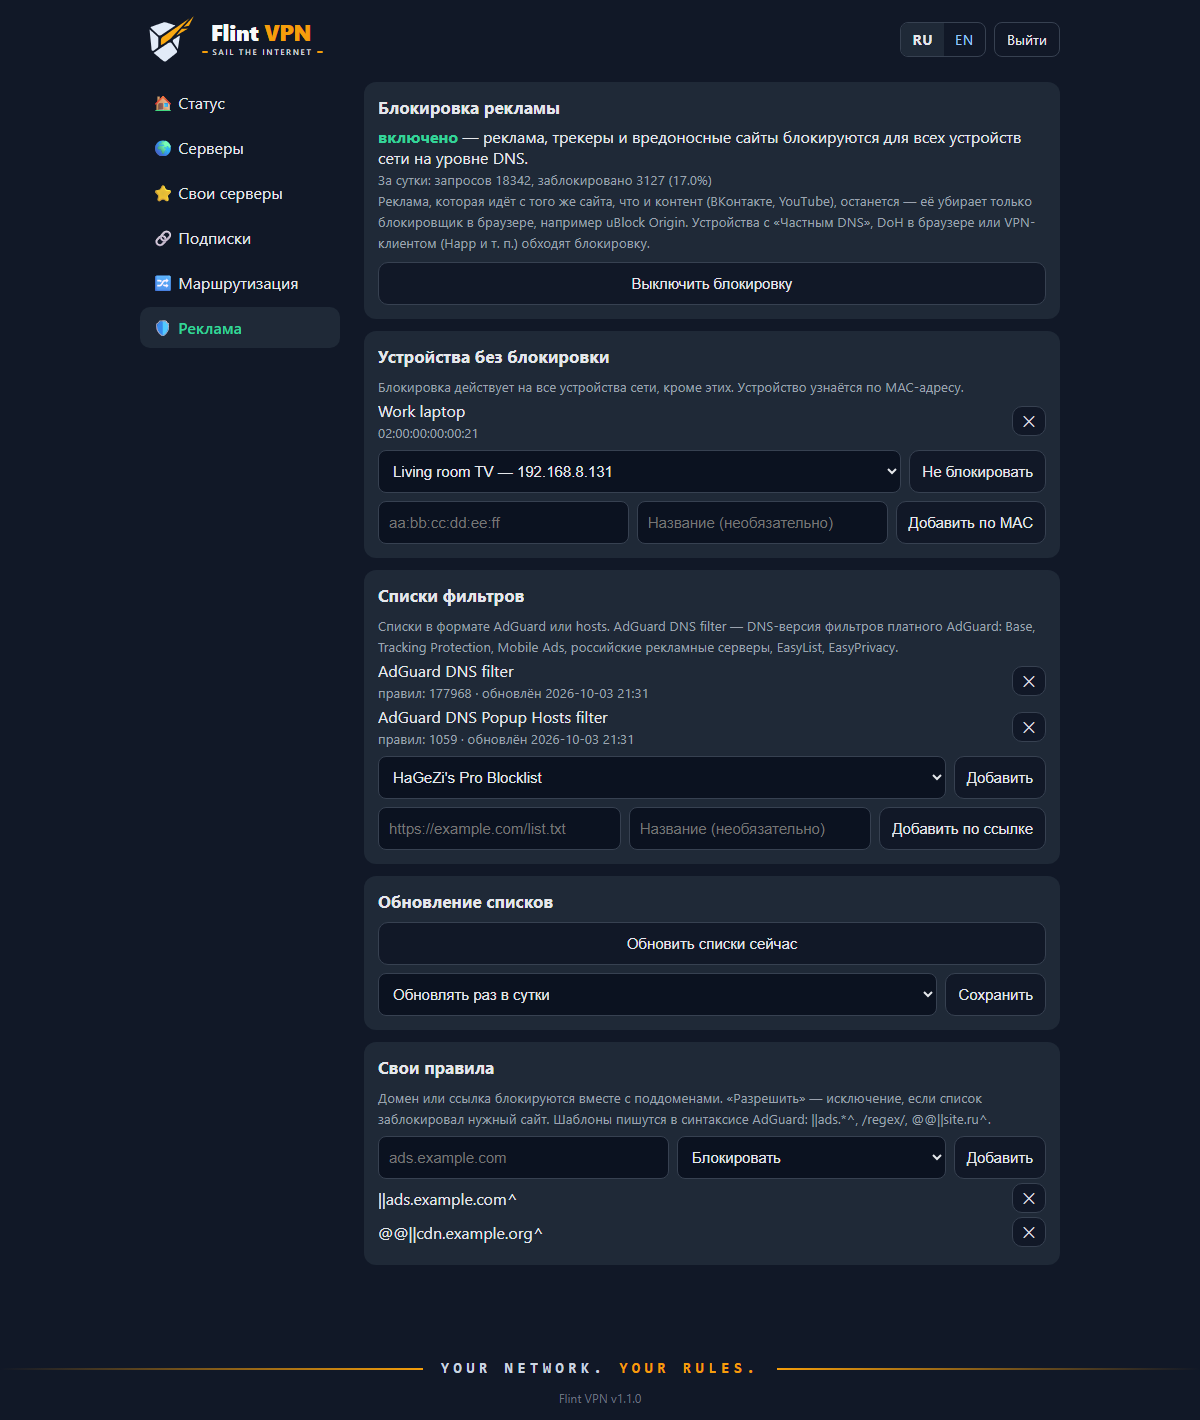
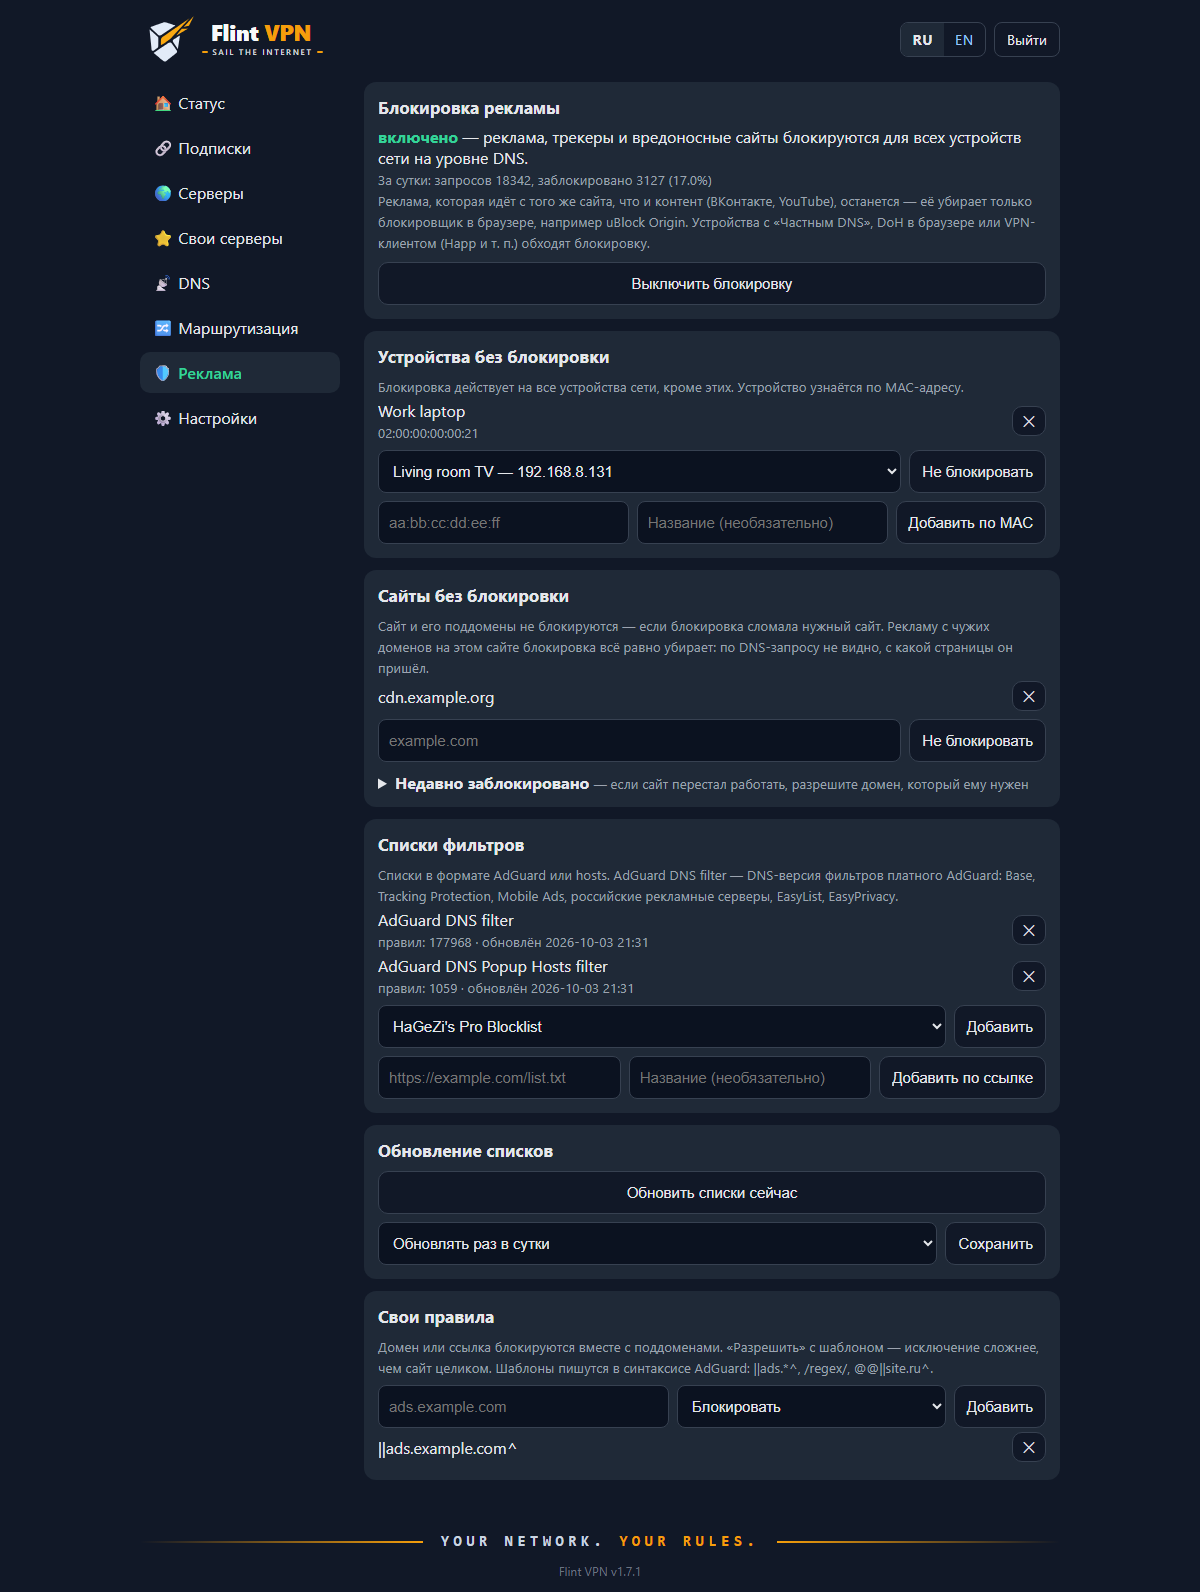
panel: tab order Status, Subscriptions, Servers, Own, DNS, Routing, Ads, Settings; re-shot screenshots

diff --git a/README.md b/README.md
@@ -57,14 +57,16 @@ Flint VPN превращает роутер GL.iNet в прозрачный VPN-
 | Вход | Статус |
 |---|---|
 | ![Вход](docs/screenshots/login.png) | ![Статус](docs/screenshots/status.png) |
-| **Серверы** | **Белые списки** |
-| ![Серверы](docs/screenshots/servers.png) | ![Белые списки](docs/screenshots/whitelist.png) |
-| **Свои серверы** | **Редактирование сервера** |
-| ![Свои серверы](docs/screenshots/own.png) | ![Редактирование](docs/screenshots/edit.png) |
-| **Подписки** | **Маршрутизация** |
-| ![Подписки](docs/screenshots/subs.png) | ![Маршрутизация](docs/screenshots/routing.png) |
-| **Блокировка рекламы** | **Телефон** |
-| ![Блокировка рекламы](docs/screenshots/adblock.png) | ![Телефон](docs/screenshots/mobile-status.png) |
+| **Подписки** | **Серверы** |
+| ![Подписки](docs/screenshots/subs.png) | ![Серверы](docs/screenshots/servers.png) |
+| **Белые списки** | **Свои серверы** |
+| ![Белые списки](docs/screenshots/whitelist.png) | ![Свои серверы](docs/screenshots/own.png) |
+| **Редактирование сервера** | **DNS** |
+| ![Редактирование](docs/screenshots/edit.png) | ![DNS](docs/screenshots/dns.png) |
+| **Маршрутизация** | **Блокировка рекламы** |
+| ![Маршрутизация](docs/screenshots/routing.png) | ![Блокировка рекламы](docs/screenshots/adblock.png) |
+| **Настройки** | **Телефон** |
+| ![Настройки](docs/screenshots/settings.png) | ![Телефон](docs/screenshots/mobile-status.png) |
 | **Телефон: серверы** | **Без серверов** |
 | ![Телефон: серверы](docs/screenshots/mobile-servers.png) | ![Без серверов](docs/screenshots/empty.png) |
 
@@ -224,12 +226,12 @@ Panel: http://vpn.lan:81/  (PIN from flint.env)
 | Вкладка | Что там |
 |---|---|
 | **Статус** | VPN включён или выключен (кнопка), текущий сервер, IP через VPN и IP провайдера (до VPN), гео-фильтр, число своих сайтов и серверов, когда проверялись подписки, автопереключение и последний сбой, блокировка рекламы, DNS-сервер |
+| **Подписки** | подписки VPN-провайдеров: добавить по ссылке, изменить ссылку или название, удалить; когда обновлялась, сколько серверов, срок действия и трафик; «Обновить все подписки сейчас» и интервал автообновления |
 | **Серверы** | выбор сервера одной кнопкой — серверы сгруппированы по подпискам, свои серверы отдельно; блок «Белые списки»; включение автопереключения при сбое |
 | **Свои серверы** | серверы не из подписки: добавить по ссылке `vless://`, скопировать сервер из подписки и изменить копию, ввести вручную; изменить или удалить |
-| **Подписки** | подписки VPN-провайдеров: добавить по ссылке, изменить ссылку или название, удалить; когда обновлялась, сколько серверов, срок действия и трафик; «Обновить все подписки сейчас» и интервал автообновления |
+| **DNS** | режим DoH, DNSCrypt или обычный UDP и сервер для каждого — готовый или свой; используемый режим отмечен |
 | **Маршрутизация** | гео-фильтр РФ (включить или выключить); свои сайты, IP и подсети «всегда напрямую» или «всегда через VPN» |
 | **Реклама** | блокировка рекламы (включить или выключить) и статистика за сутки; устройства без блокировки; сайты без блокировки и «Недавно заблокировано» с кнопкой «Разрешить»; списки фильтров — готовые и свои по ссылке; автообновление и «Обновить списки сейчас»; свои правила |
-| **DNS** | режим DoH, DNSCrypt или обычный UDP и сервер для каждого — готовый или свой; используемый режим отмечен |
 | **Настройки** | смена PIN; экспорт настроек в файл и импорт из файла (подписки, серверы, сайты, реклама, DNS, режимы; без PIN и сети) |
 
 Язык панели — русский или английский. При первом входе он выбирается по языку браузера (или по `UI_LANG` в `flint.env`), потом его можно сменить переключателем **RU | EN** в правом верхнем углу (рядом с кнопкой «Выйти», на странице входа — там же); выбор запоминается в браузере. На этом же языке пишутся сообщения после действий в панели.

diff --git a/README.en.md b/README.en.md
@@ -59,14 +59,16 @@ The panel is available in English and Russian: the language follows your browser
 | Login | Status |
 |---|---|
 | ![Login](docs/screenshots/en/login.png) | ![Status](docs/screenshots/en/status.png) |
-| **Servers** | **White lists** |
-| ![Servers](docs/screenshots/en/servers.png) | ![White lists](docs/screenshots/en/whitelist.png) |
-| **Own servers** | **Editing a server** |
-| ![Own servers](docs/screenshots/en/own.png) | ![Edit](docs/screenshots/en/edit.png) |
-| **Subscriptions** | **Routing** |
-| ![Subscriptions](docs/screenshots/en/subs.png) | ![Routing](docs/screenshots/en/routing.png) |
-| **Ad blocking** | **Phone** |
-| ![Ad blocking](docs/screenshots/en/adblock.png) | ![Phone](docs/screenshots/en/mobile-status.png) |
+| **Subscriptions** | **Servers** |
+| ![Subscriptions](docs/screenshots/en/subs.png) | ![Servers](docs/screenshots/en/servers.png) |
+| **White lists** | **Own servers** |
+| ![White lists](docs/screenshots/en/whitelist.png) | ![Own servers](docs/screenshots/en/own.png) |
+| **Editing a server** | **DNS** |
+| ![Edit](docs/screenshots/en/edit.png) | ![DNS](docs/screenshots/en/dns.png) |
+| **Routing** | **Ad blocking** |
+| ![Routing](docs/screenshots/en/routing.png) | ![Ad blocking](docs/screenshots/en/adblock.png) |
+| **Settings** | **Phone** |
+| ![Settings](docs/screenshots/en/settings.png) | ![Phone](docs/screenshots/en/mobile-status.png) |
 | **Phone: servers** | **No servers** |
 | ![Phone: servers](docs/screenshots/en/mobile-servers.png) | ![No servers](docs/screenshots/en/empty.png) |
 
@@ -224,12 +226,12 @@ Address: **http://vpn.lan:81/** (port 80 is taken by the stock GL.iNet admin pan
 | Tab | What's there |
 |---|---|
 | **Status** | VPN on/off button, current server, IP via VPN and the provider IP (before VPN), geo filter, number of own sites and servers, last subscription check, failover state and last failure, ad blocking, DNS server |
+| **Subscriptions** | VPN provider subscriptions: add by link, change the link or name, delete; last update, number of servers, expiry and traffic; "Update all subscriptions now" and the auto-update interval |
 | **Servers** | one-click server selection — servers grouped by subscription, own servers apart; "White lists" block; failover on/off |
 | **Own servers** | servers not from the subscription: add by `vless://` link, copy a subscription server and edit the copy, enter manually; edit or delete |
-| **Subscriptions** | VPN provider subscriptions: add by link, change the link or name, delete; last update, number of servers, expiry and traffic; "Update all subscriptions now" and the auto-update interval |
+| **DNS** | DoH, DNSCrypt or plain UDP mode with a server for each — a preset or your own; the mode in use is marked |
 | **Routing** | Russia geo filter on/off; own sites, IPs and subnets "always direct" or "always via VPN" |
 | **Ad blocking** | ad blocking on/off and 24-hour stats; devices without blocking; sites without blocking and "Recently blocked" with an Allow button; filter lists — ready-made and your own by URL; auto-update and "Update the lists now"; own rules |
-| **DNS** | DoH, DNSCrypt or plain UDP mode with a server for each — a preset or your own; the mode in use is marked |
 | **Settings** | change the PIN; export the settings to a file and import them from a file (subscriptions, servers, sites, ad blocking, DNS, modes; no PIN or network) |
 
 The panel speaks English and Russian. On the first visit the language follows the browser (or `UI_LANG` in `flint.env`); after that use the **RU | EN** switch in the top right corner (next to "Sign out"; on the login page too) — the choice is remembered in the browser. Messages after panel actions use the same language.

diff --git a/CHANGELOG.md b/CHANGELOG.md
@@ -6,6 +6,10 @@
 
 ## [Не выпущено]
 
+### Изменено
+- Порядок вкладок панели: Статус, Подписки, Серверы, Свои серверы, DNS, Маршрутизация, Реклама, Настройки.
+- Скриншоты в README пересняты под текущий дизайн, добавлены вкладки DNS и «Настройки».
+
 ## [1.7.1] — 2026-10-04
 
 ### Изменено

diff --git a/CHANGELOG.en.md b/CHANGELOG.en.md
@@ -6,6 +6,10 @@ Versions before 1.0.0 were assigned afterwards from the commit history.
 
 ## [Unreleased]
 
+### Changed
+- Panel tab order: Status, Subscriptions, Servers, Own servers, DNS, Routing, Ad blocking, Settings.
+- The README screenshots are re-shot for the current design; the DNS and Settings tabs are added.
+
 ## [1.7.1] — 2026-10-04
 
 ### Changed
